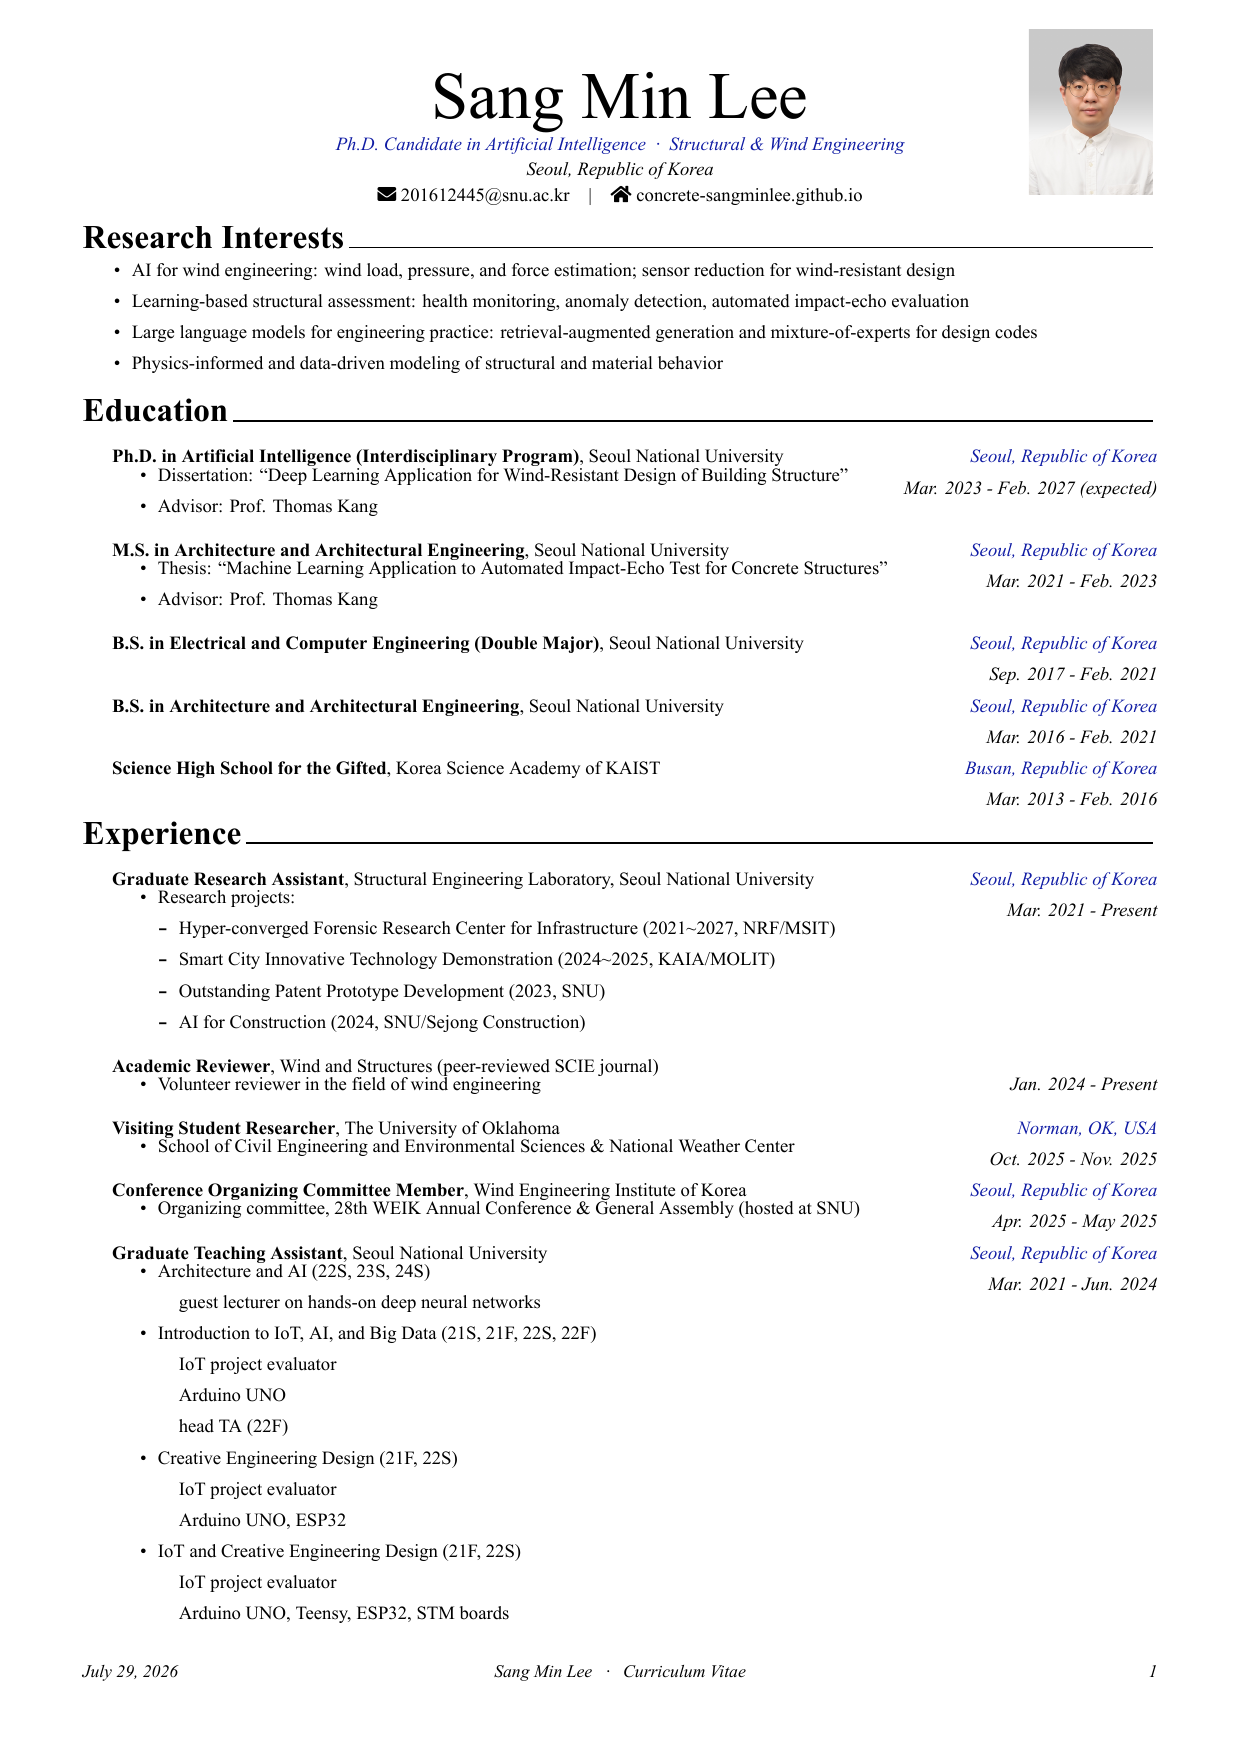
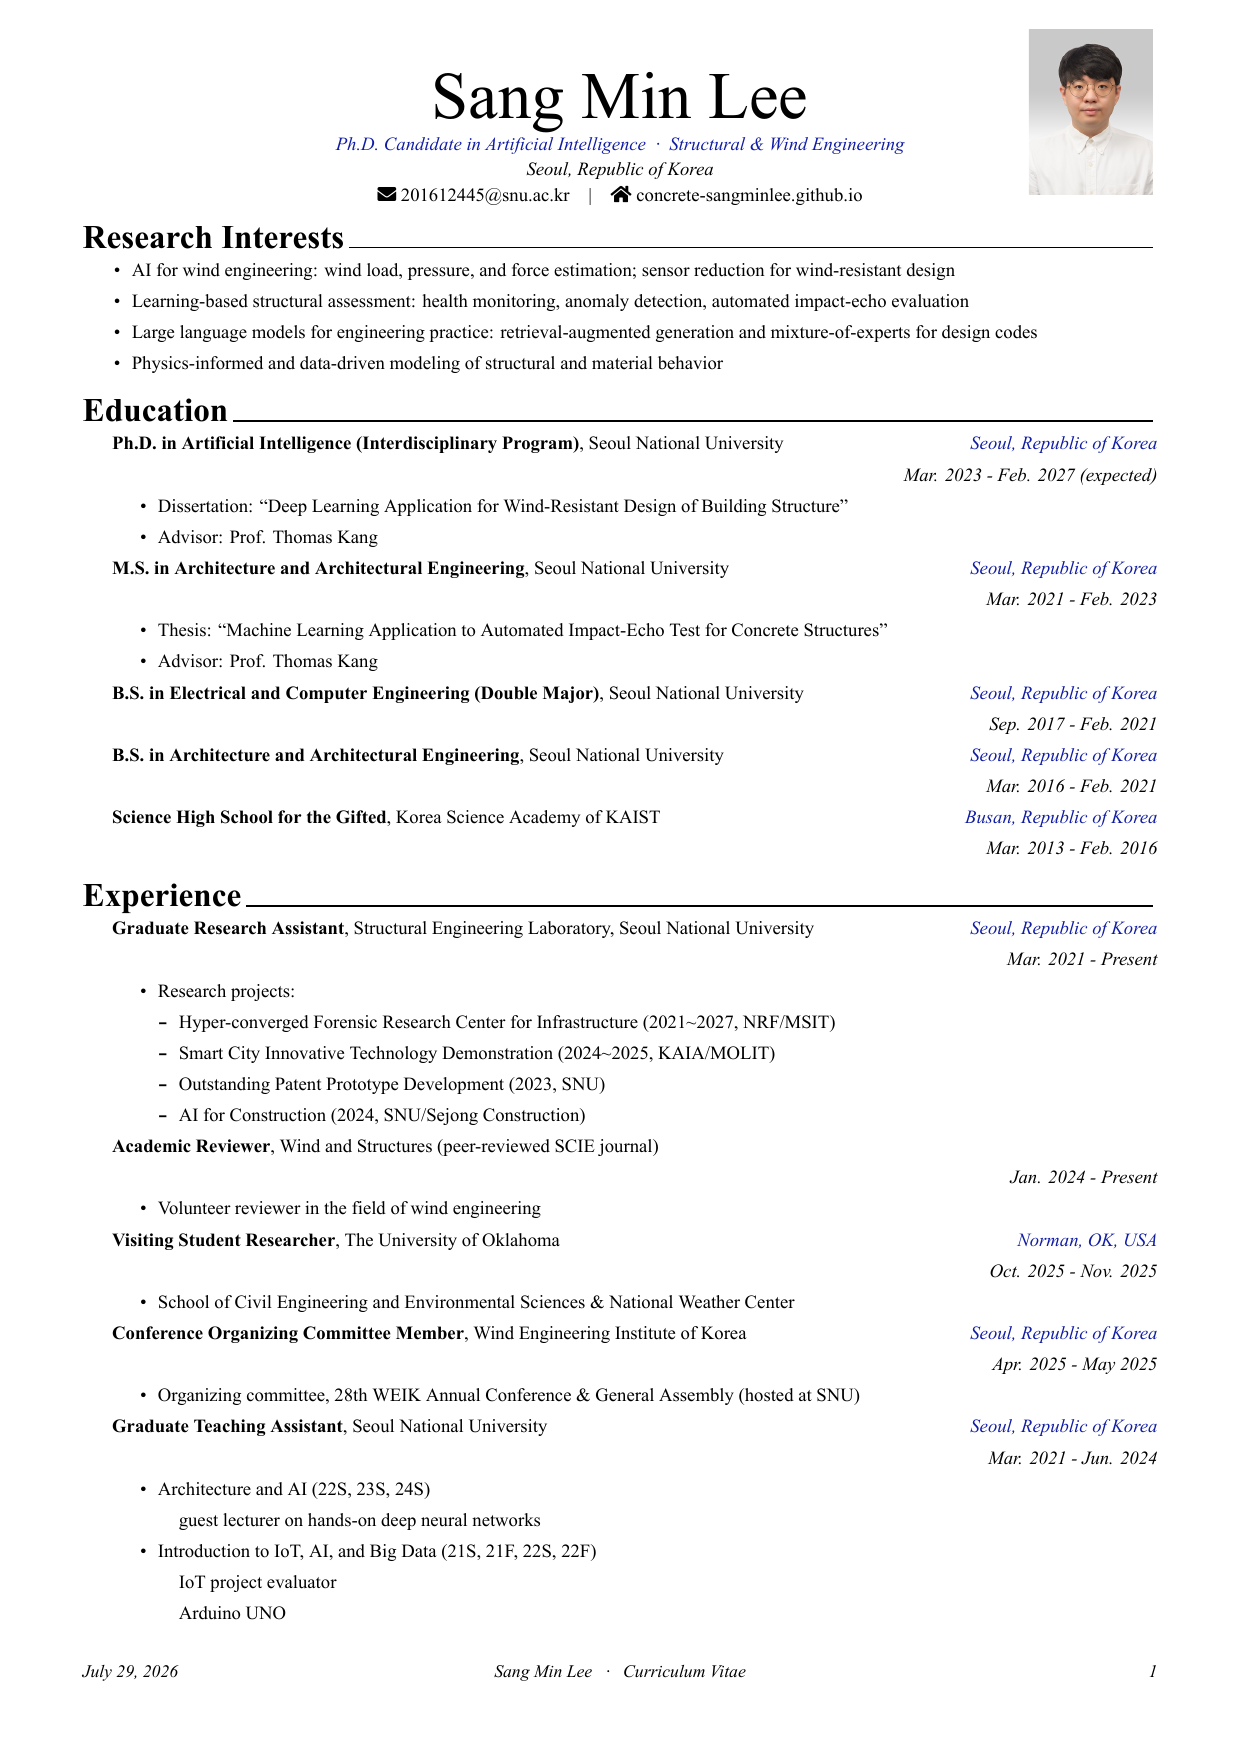
Even out entry line spacing with uniform grid rows

diff --git a/README.md b/README.md
@@ -18,6 +18,7 @@
   <img src="docs/preview.png" width="250" alt="CV — page 1">
   <img src="docs/preview-2.png" width="250" alt="CV — page 2">
   <img src="docs/preview-3.png" width="250" alt="CV — page 3">
+  <img src="docs/preview-4.png" width="250" alt="CV — page 4">
 </p>
 
 <p align="center">
